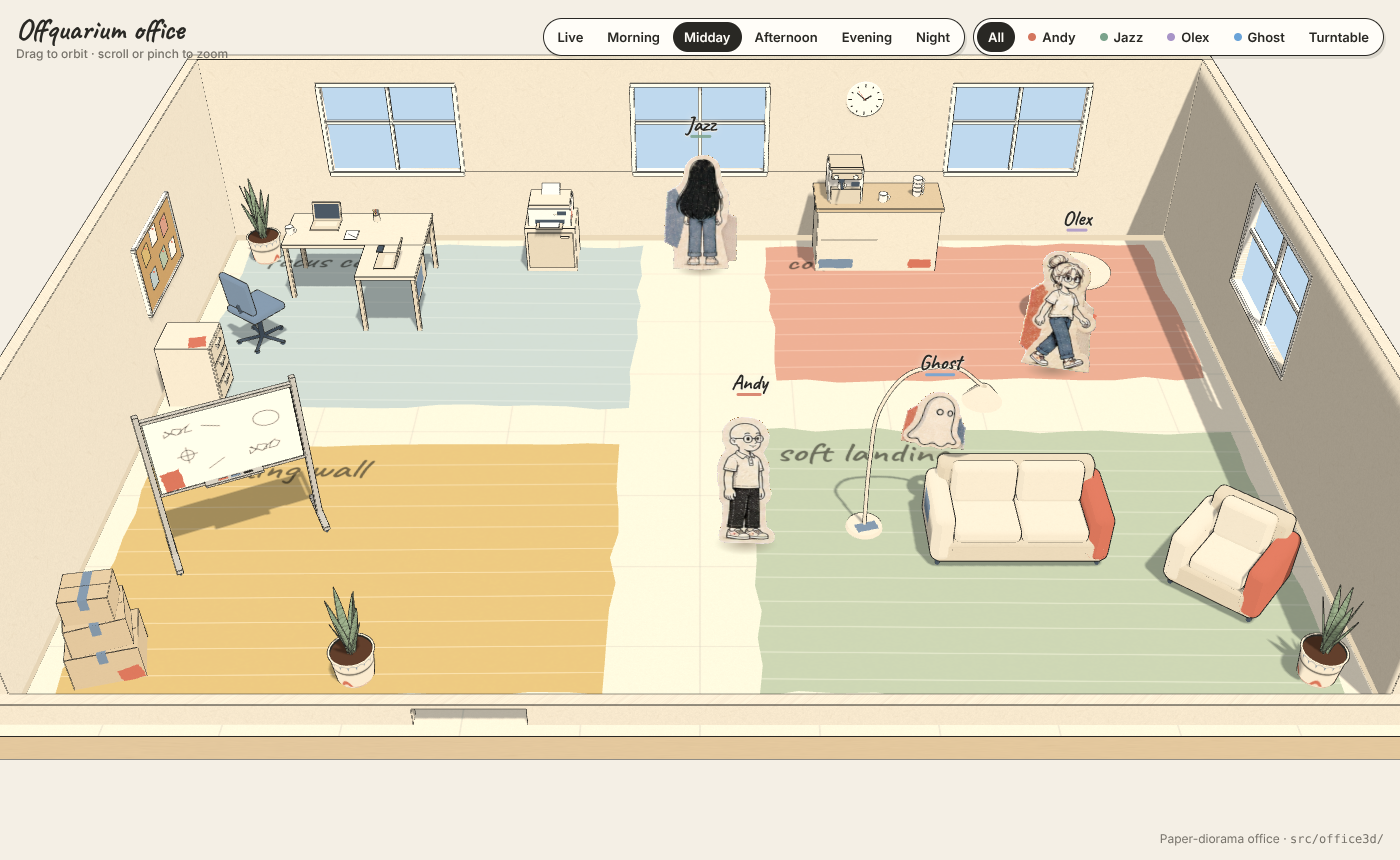
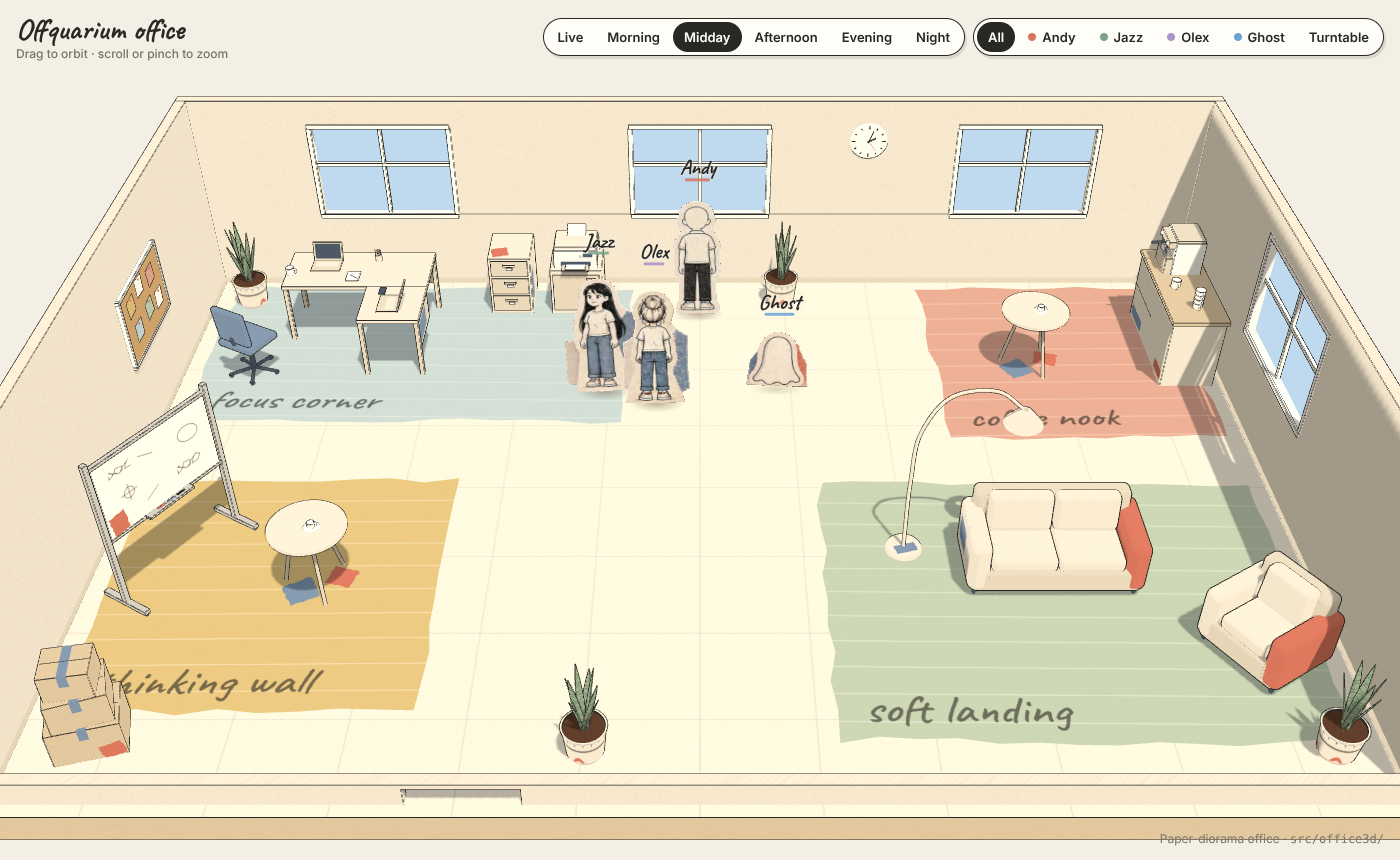
feat: 3D-first office layout
Zones each take a corner: desk under the back-left window with cabinet
and printer, coffee counter on the right wall with a cafe table,
whiteboard angled off the left wall with a standing table, and the sofa
corner front right. Tall pieces hug the walls and the middle stays open.

Claude-Session: https://claude.ai/code/session_011ShH4q3PKJAyLeZ1LQccyK

diff --git a/src/office3d/office.js b/src/office3d/office.js
@@ -30,22 +30,30 @@ async function loadFonts() {
 }
 
 // ---- Layout ----
-// Mirrors initDefaultOffice() in js/game.js, mapped onto a 12 m x 8 m room
-// (2D top of screen = back wall). Rotation is about Y; 0 faces the camera.
+// Designed for the 3D room rather than copied from the 2D screen: tall
+// pieces stand against walls, low pieces sit forward, and the middle of the
+// room stays open as the walkway. The 12 m x 8 m room's back wall is at
+// z = -4 (top of the 2D screen); rotation is about Y, 0 faces the camera.
 const LAYOUT = [
-  ['desk_cluster', -4.0, -2.95, 0],
-  ['office_chair', -5.15, -1.75, 2.5],
-  ['printer', -1.85, -3.5, 0],
-  ['filing_cabinet', -5.6, -0.7, Math.PI / 2],
-  ['plant_snake', -5.5, -3.55, 0],
-  ['coffee_station', 2.2, -3.56, 0],
-  ['table_cafe', 4.4, -2.1, 0],
-  ['whiteboard', -4.5, 1.7, 0.45],
+  // Focus corner (back left): desk under the window, printer and cabinet beside it.
+  ['desk_cluster', -3.9, -3.05, 0],
+  ['office_chair', -5.2, -2.1, Math.PI - 0.5],
+  ['filing_cabinet', -2.3, -3.6, 0],
+  ['printer', -1.5, -3.55, 0],
+  ['plant_snake', -5.55, -3.55, 0],
+  // Coffee nook (back right): counter on the right wall, cafe table in front.
+  ['coffee_station', 5.6, -2.55, -Math.PI / 2],
+  ['table_cafe', 3.85, -2.25, 0],
+  ['plant_snake', 1.0, -3.6, 1.2],
+  // Thinking wall (front left): whiteboard on the left wall, standing table.
+  ['whiteboard', -5.15, 1.15, Math.PI / 2 - 0.55], // angled to face the room
+  ['table_cafe', -3.75, 1.45, 0],
   ['boxes_stack', -5.35, 3.4, 0.25],
-  ['plant_snake', -3.1, 3.55, 0.8],
-  ['couch_2seater', 3.1, 1.75, 0],
-  ['armchair', 5.05, 2.35, -0.7],
-  ['lamp_arc_big', 1.65, 1.55, 0],
+  ['plant_snake', -1.0, 3.55, 0.8],
+  // Soft landing (front right): sofa facing the room, armchair angled in, arc lamp.
+  ['couch_2seater', 3.45, 1.25, 0],
+  ['armchair', 5.25, 2.35, -1.0],
+  ['lamp_arc_big', 2.05, 0.95, 0],
   ['plant_snake', 5.55, 3.55, 2.1],
 ];
 

diff --git a/src/office3d/room.js b/src/office3d/room.js
@@ -43,10 +43,10 @@ function buildBase(group) {
 // ---- Zone mats ----
 
 const ZONES = [
-  { label: 'focus corner', color: '#bdced1', rect: [-5.75, -3.85, -0.75, -0.45], rot: -0.012, seed: 1 },
-  { label: 'coffee nook', color: '#d8a08d', rect: [0.85, -3.85, 5.75, -0.95], rot: 0.014, seed: 2 },
-  { label: 'thinking wall', color: '#d7ba78', rect: [-5.75, 0.25, -0.85, 3.8], rot: 0.01, seed: 3 },
-  { label: 'soft landing', color: '#b8c7af', rect: [0.55, 0.0, 5.75, 3.8], rot: -0.01, seed: 4 },
+  { label: 'focus corner', color: '#bdced1', rect: [-5.8, -3.85, -0.85, -1.15], rot: -0.012, seed: 1 },
+  { label: 'coffee nook', color: '#d8a08d', rect: [2.75, -3.85, 5.8, -0.85], rot: 0.014, seed: 2 },
+  { label: 'thinking wall', color: '#d7ba78', rect: [-5.8, -0.1, -2.55, 3.1], rot: 0.01, seed: 3, align: 'right' },
+  { label: 'soft landing', color: '#b8c7af', rect: [1.25, -0.05, 5.8, 3.45], rot: -0.01, seed: 4 },
 ];
 
 function jaggedRect(w, h, seed) {
@@ -89,7 +89,9 @@ function buildMats(group) {
       for (let y = 46; y < ch; y += 46) { g.beginPath(); g.moveTo(0, y); g.lineTo(cw, y); g.stroke(); }
       g.fillStyle = 'rgba(41,40,36,0.62)';
       g.font = '600 64px Caveat, cursive';
-      g.fillText(z.label, 34, ch - 30); // front edge, nearest the camera and clear of furniture
+      // Front edge, nearest the camera; right-aligned where furniture sits at the left.
+      g.textAlign = z.align === 'right' ? 'right' : 'left';
+      g.fillText(z.label, z.align === 'right' ? cw - 34 : 34, ch - 30);
     });
     tex.wrapS = tex.wrapT = THREE.ClampToEdgeWrapping;
     const geo = new THREE.ShapeGeometry(jaggedRect(w, d, z.seed));
